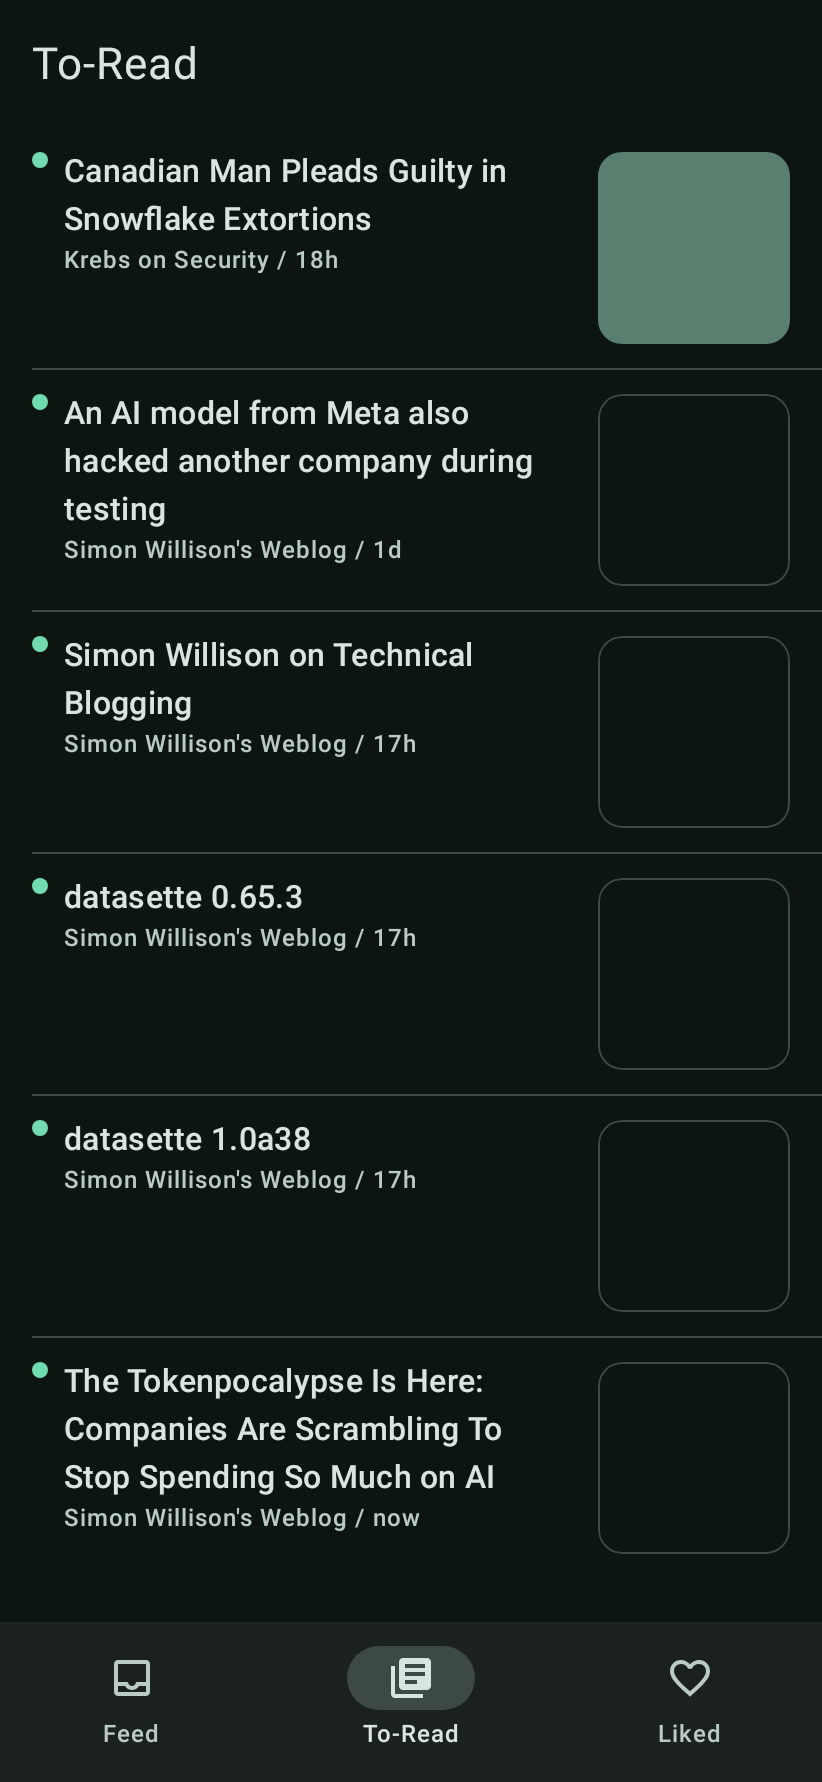
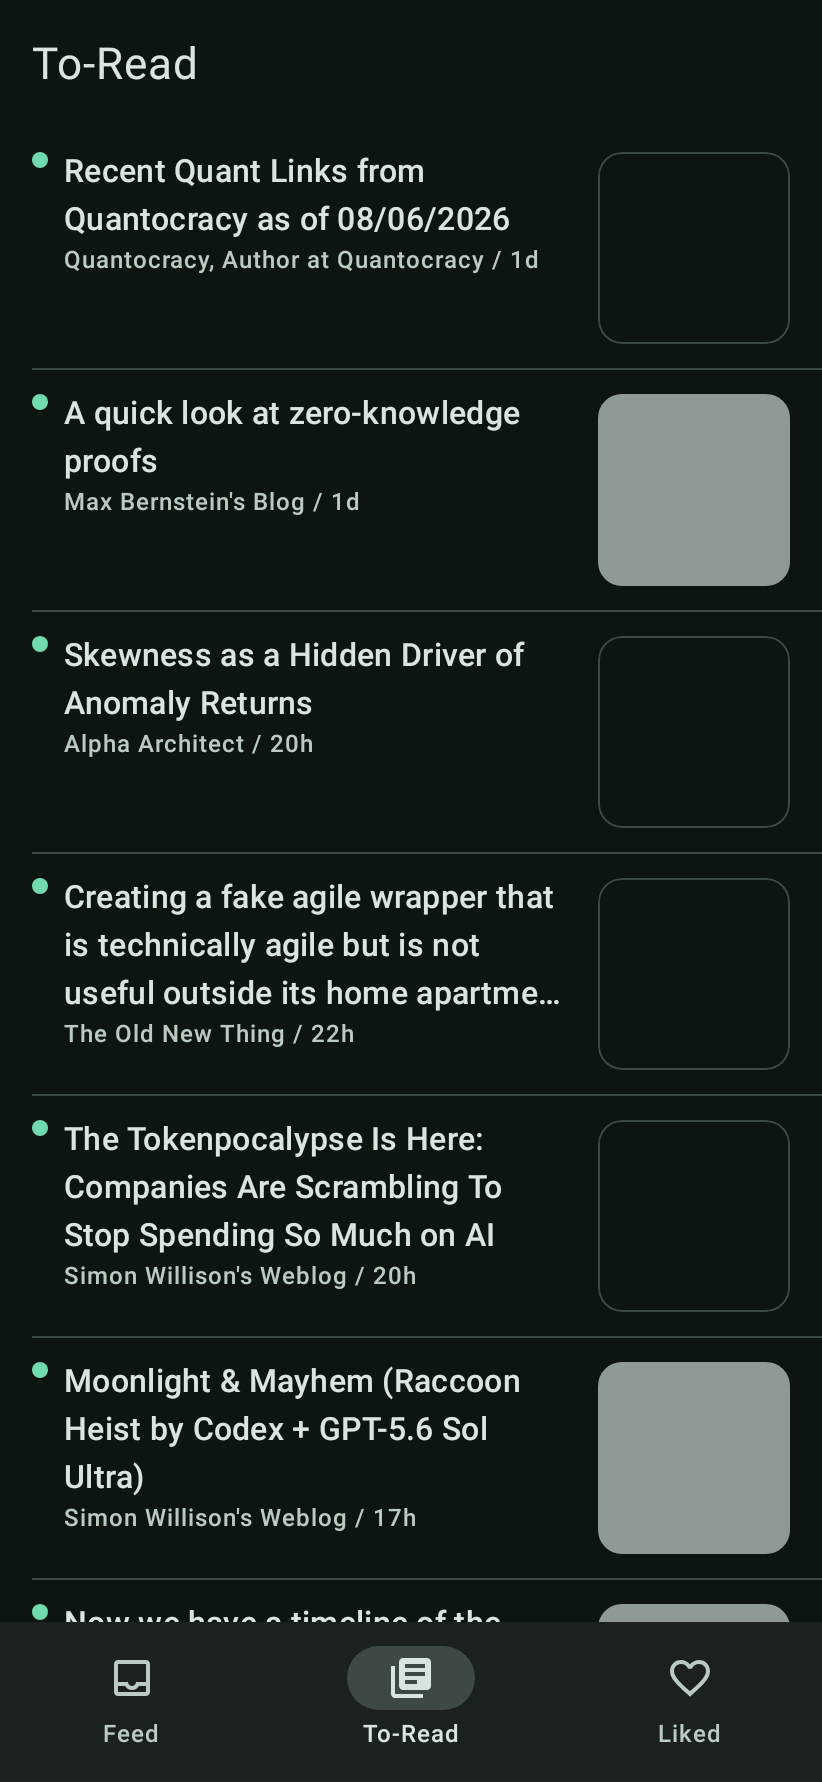
U16: Release v0.2.0
versionCode 3 / versionName 0.2.0, release-signed with U02's key. README now
leads with v0.2's surfaces (folder sections + bottom bar, code, tables) instead
of describing v0.2 as in progress; NOTES.md pruned to 99 lines.

  package: name='dev.mkiros.perch' versionCode='3' versionName='0.2.0'
  Signer #1 certificate DN: CN=Perch, OU=Perch, O=mkiros.dev, C=US
  Signer #1 certificate SHA-256 digest: 61367c0499de5c49c824f4d7ba7b4e692d33960cc57c0622772227a8b7fce489
  BUILD SUCCESSFUL in 1m 51s (:app:assembleRelease, incl. lintVitalRelease)
  $ grep -c '^- \[ \]' PLAN-2.md
  0

diff --git a/README.md b/README.md
@@ -7,10 +7,11 @@
 </p>
 
 <p align="center">
-  <img src="screenshots/home-dark.png" width="23%" alt="Unified unread list, dark theme">
-  <img src="screenshots/article.png" width="23%" alt="Article reader view">
-  <img src="screenshots/drawer.png" width="23%" alt="Source drawer with folders and unread counts">
-  <img src="screenshots/to-read-dark.png" width="23%" alt="The To-Read queue">
+  <img src="screenshots/home-dark.png" width="18.5%" alt="Unread list sectioned by folder, dark theme">
+  <img src="screenshots/article.png" width="18.5%" alt="Article reader view">
+  <img src="screenshots/code-dark.png" width="18.5%" alt="Syntax-highlighted code block with a pinned line-number gutter">
+  <img src="screenshots/table-dark.png" width="18.5%" alt="A tabular security advisory rendered with rules and a header row">
+  <img src="screenshots/to-read-dark.png" width="18.5%" alt="The To-Read queue">
 </p>
 
 ## Install
@@ -33,21 +34,36 @@ delete several at once. OPML in and out through the system file picker.
 
 **Reading.** One unread list across every source, sectioned by folder and filtered to
 a time range you pick — Today through All Time. Entries render as native Compose, not
-a WebView: paragraphs, headings, lists, block quotes, tables, images, and code blocks
-that scroll horizontally instead of wrapping. Feed HTML is sanitized against an
-allowlist on the way *into* the database, so nothing downstream ever sees publisher
-markup.
+a WebView: paragraphs, headings, lists, block quotes, images, tables with real rules
+and a header row, and code blocks that scroll horizontally instead of wrapping. Code
+is syntax-highlighted in a dozen languages with a pinned line-number gutter that stays
+put as the code scrolls and never ends up in what you copy. Tap an image for a
+full-screen viewer with pinch-zoom, double-tap and drag-to-dismiss. Feed HTML is
+sanitized against an allowlist on the way *into* the database, so nothing downstream
+ever sees publisher markup.
+
+**Full text.** Plenty of feeds ship a headline and a link, or a 200-character teaser
+where the article should be. Perch fetches the page and runs a Readability-style
+extraction over it, then feeds the result through the same sanitizer and lowering
+pipeline as everything else — so an extracted article gets no special treatment
+downstream. It happens on open, never on refresh, and it never replaces text with
+less text. *Load full article* in the overflow forces it when the heuristic guesses
+wrong. Visiting the site should never be required to read an article.
 
 **Keeping.** Three independent flags per entry — read, **liked**, and **saved for
 later** — each with its own destination in the bottom bar, each surviving a refresh
 and a reinstall. Saved and Liked ignore the time filter, because a to-read list that
-hides last month's articles is not a to-read list.
+hides last month's articles is not a to-read list. A profile export writes folders,
+sources and every one of those flags to one JSON file; importing it merges, is
+idempotent, and parks state for entries that have not been fetched yet so a refresh
+straight after a restore doesn't undo it.
 
 **Quietly.** Conditional GET (`ETag` / `If-Modified-Since`) on every refresh, so a
 quiet feed costs a 304 and nothing else. Background refresh on an interval you set,
-network-constrained, via WorkManager. Material 3 in light and dark, the whole palette
-derived from one seed colour. Entries dedupe on `(feedId, guid)` and a refresh never
-resurrects something you have already read.
+network-constrained, via WorkManager. All three lists are paged, so a thousand-entry
+All Time query loads a screenful and not the corpus. Material 3 in light and dark, the
+whole palette derived from one seed colour. Entries dedupe on `(feedId, guid)` and a
+refresh never resurrects something you have already read.
 
 ## Build
 
@@ -72,6 +88,7 @@ back to debug signing with a warning if it is not, so a clean clone still builds
 ```
 app/src/main/java/dev/mkiros/perch/
   data/parse/    feed parsers, HTML sanitizer, article-block lowering
+  data/extract/  Readability-style full-text extraction over jsoup
   data/db/       Room entities, DAOs, migrations
   data/net/      OkHttp fetcher, conditional GET, connectivity
   data/repo/     FeedRepository — fetch → parse → sanitize → store
@@ -87,10 +104,10 @@ and `PLAN-2.md` is what is being built next.
 
 ## Status
 
-v0.1.0 shipped and is in daily use. v0.2 is in progress: folders, the read-later queue
-and the bottom bar are done; still to come are thumbnails, full-text extraction for
-feeds that ship links only, syntax-highlighted code, real tables, and a tap-to-zoom
-image viewer.
+v0.2.0 is the current release and is in daily use against 42 live sources. It adds
+folders, the To-Read and Liked queues with a bottom bar, thumbnails, full-text
+extraction, syntax-highlighted code, real tables, a tap-to-zoom image viewer, paged
+lists, OPML with folders, and profile backup/restore.
 
 ## Licence
 

diff --git a/NOTES.md b/NOTES.md
@@ -16,10 +16,10 @@ Windows 10 Pro 19045.6466, WSL 2.7.11, i7-4790K, 15.9 GB host RAM; no physical d
   frame callback Robolectric never delivers, while under `@GraphicsMode(NATIVE)` `View.draw(Canvas)` is synchronous;
   a sheet/dialog/dropdown is its **own window**, so draw its `rootView` over the decor view **translated by
   `getLocationOnScreen`**.
-- 2026-08-07 — **T32.** `acceptance/LiveAcceptanceTest` (in `testDebug`): `./gradlew :app:testDebugUnitTest
+- 2026-08-07 — **Live acceptance** (`acceptance/LiveAcceptanceTest`, `testDebug`): `./gradlew :app:testDebugUnitTest
   -Pperch.live=true --tests '*LiveAcceptance*'`. **Gate 1 sits on the 38/42 floor** — `danluu.com`/`projectzero.google`
-  bust SPEC §6's 8 MiB cap, `research.nccgroup.com` has no feed, `rachelbythebay.com` times out here; one more death
-  is a red run. **§8 residual, not ours:** the LLVM feed omits the spaces around inline `<code>`/`<a>` — do not "repair" it.
+  bust SPEC §6's 8 MiB cap, `research.nccgroup.com` has no feed, `rachelbythebay.com` times out; one more death is red.
+  **Not ours:** the LLVM feed omits the spaces around inline `<code>`/`<a>` — do not "repair" it.
 - 2026-08-07 — **U01: the repo is public** (MIT) — never un-redact the `apiKey` in `fixtures/homepages/research-nccgroup-com.html`.
 - 2026-08-07 — **U02: losing `~/.perch/perch-release.jks` or `signing.properties` makes every future install a data
   wipe** — you cannot rotate to a key you no longer have. Both `chmod 600`, outside the repo, **not backed up yet**.
@@ -90,11 +90,10 @@ Windows 10 Pro 19045.6466, WSL 2.7.11, i7-4790K, 15.9 GB host RAM; no physical d
   test's leaked coroutine to whoever runs next** (`UncaughtExceptionsBeforeTest` at `@Before`, then `@After` dies on an
   uninitialised `db`) — the named test is the victim. Suspect **`SettingsStore.create`'s unowned
   `CoroutineScope(IO+SupervisorJob)`**, never cancelled, writing onto a wiped Robolectric data dir. **PLAN-3 box.**
-- 2026-08-08 — **U15.** 38/42 pull · 0 `Unsupported`/25,882 blocks · 75.4% thumbnails · 92.5% full-text, ×39.9
-  aggregate · gpuopen 194→5269 · 3 folders round-tripped · 123 tables/2080 cells · paging 30 of 1037 · 16 shots.
-  **`clean` deliberately omitted** from the box's `clean test assembleRelease`: it deletes `build/perch-screenshots/`,
-  the evidence the Done-condition asks for. **v0.2 APK, release-signed `61367c04…fce489` (upgrades v0.1 in place):
-  `app/build/outputs/apk/release/app-release.apk`.**
+- 2026-08-08 — **U15/U16 — v0.2.0 shipped.** Nine live gates green (counts in commit `bd2eb89`); **`clean` is
+  deliberately omitted** from `clean test assembleRelease` — it deletes `build/perch-screenshots/`, the evidence the
+  Done-condition asks for. APK: versionCode 3, release-signed `61367c04…fce489`,
+  `app/build/outputs/apk/release/app-release.apk`. v0.1.0 was debug-signed, so **that one** upgrade needs an uninstall.
 - 2026-08-08 — **Residual polish, v0.2 (none blocks release).** No window insets anywhere (viewer close sits under
   the status bar); empty state cannot be pulled; mid-selection a folder header does nothing; themed launcher icon's P
   closes up at 48dp; no rule between code gutter and code; no edge affordance on a wide table.

diff --git a/PLAN-2.md b/PLAN-2.md
@@ -564,7 +564,7 @@ its closest OFL-licensed relative. Body and furniture stay platform families.
         `./gradlew test` is still green with no network.
       - Rung: screenshot
 
-- [ ] **U16 — Release v0.2.0.** Bump `versionCode` 3 / `versionName` `0.2.0`. Build the
+- [x] **U16 — Release v0.2.0.** Bump `versionCode` 3 / `versionName` `0.2.0`. Build the
       **release-signed** APK (U02's key). Update README.md with the new features and fresh
       screenshots. Tag `v0.2.0`, push, `gh release create v0.2.0` with notes written from
       this plan's phases, attaching `perch-0.2.0.apk`. Say explicitly in the notes that
